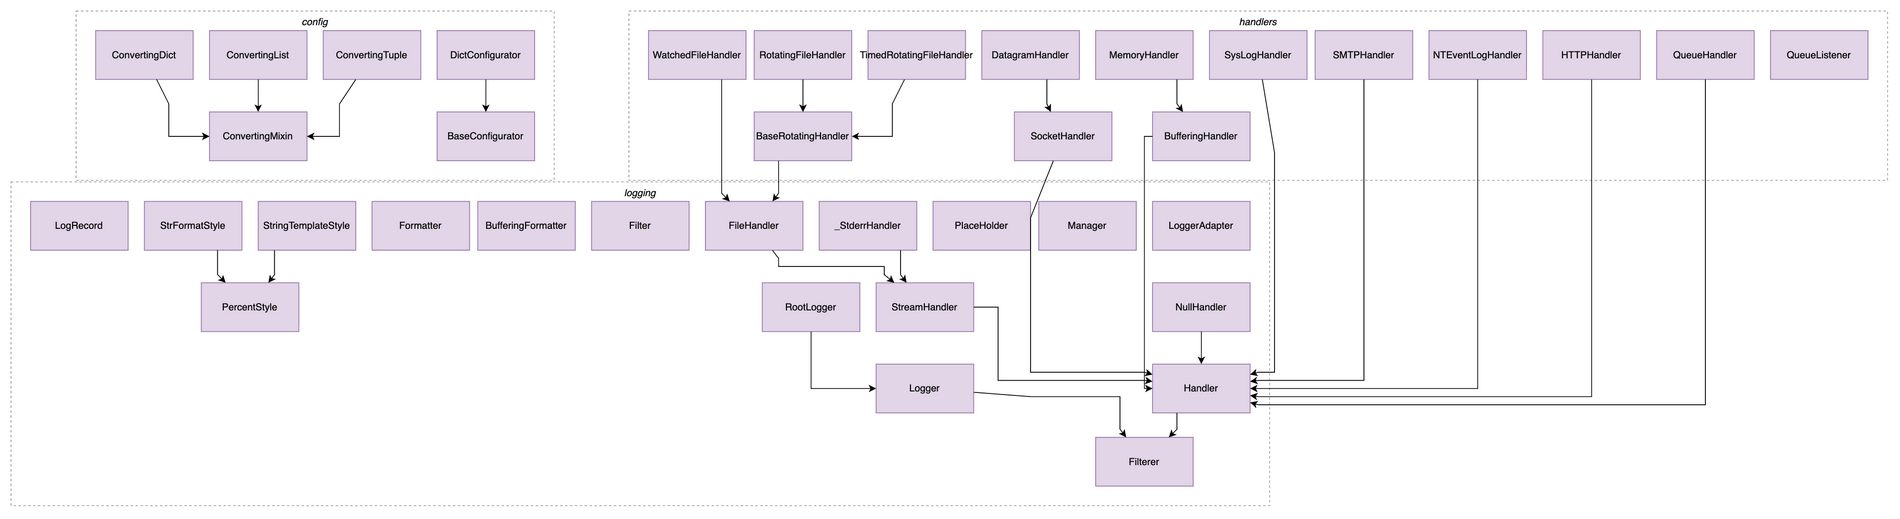
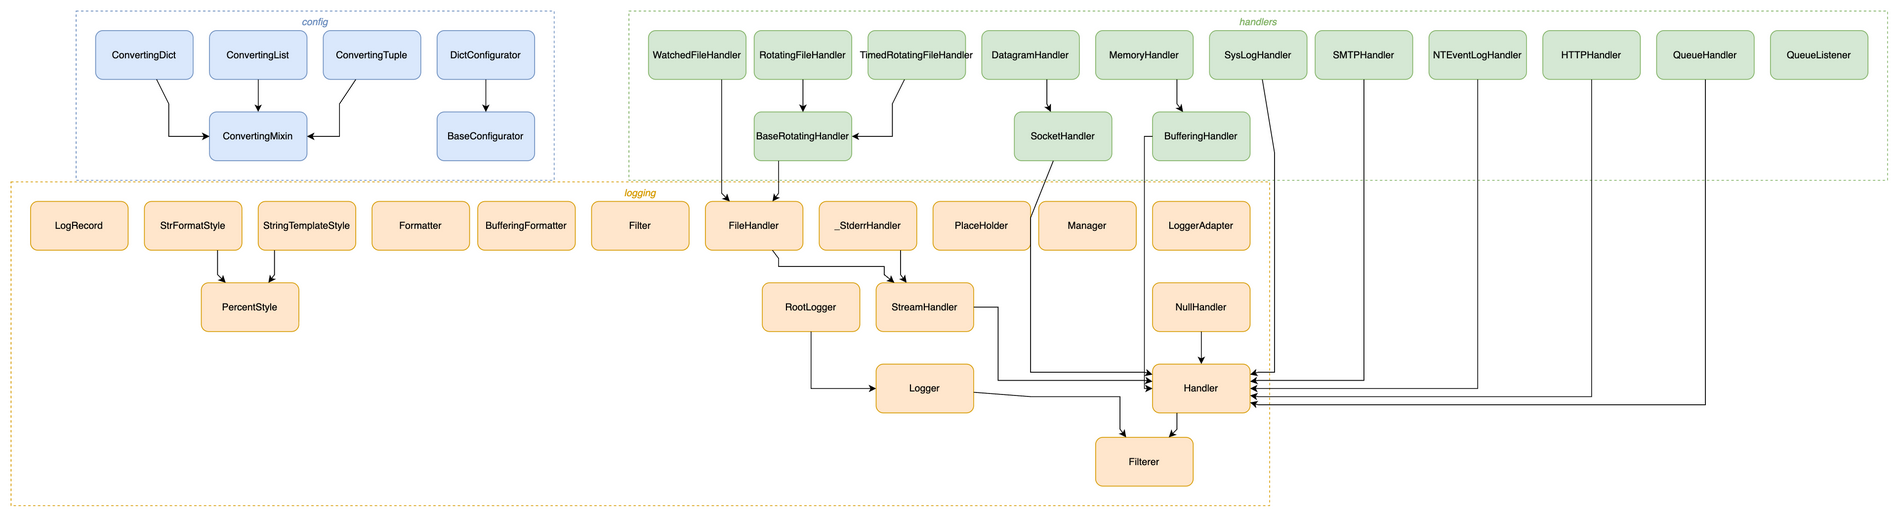
feat(autolayout): colour groups from the skill palette, not monochrome (#25)
Grouped code-viz diagrams were a wall of identical washed-out purple boxes
(pyclasses hard-coded one fill). Now autolayout tints each top-level group
with a colour pulled from the skill's own palette (styles/built-in/default.json,
single source of truth — no second list baked into the script), cycled in role
order, with matching container border + title. Related modules read as a
coloured cluster at a glance.

- Only styleless nodes are tinted; an explicit node style (e.g. an applied
  preset) always wins. Ungrouped output is byte-unchanged. --mono restores the
  old monochrome look.
- pyclasses no longer hard-codes a fill, so its grouped output is coloured by
  module.
- Regenerated assets/code-structure-example.png with the new palette.
- Bump to 1.13.0.

diff --git a/skills/drawio-skill/scripts/autolayout.py b/skills/drawio-skill/scripts/autolayout.py
@@ -25,6 +25,7 @@ Usage: python3 autolayout.py graph.json [-o diagram.drawio]
 """
 import argparse
 import json
+import os
 import shlex
 import subprocess
 import sys
@@ -35,6 +36,32 @@ NODE_STYLE = "rounded=1;whiteSpace=wrap;html=1;fillColor=#dae8fc;strokeColor=#6c
 EDGE_STYLE = "html=1;rounded=0;"
 GROUP_STYLE = ("rounded=0;whiteSpace=wrap;html=1;fillColor=none;strokeColor=#999999;"
                "verticalAlign=top;fontStyle=2;dashed=1;")
+# Group colours come from the skill's own palette (styles/built-in/default.json)
+# so there is a single source of truth, not a second list baked in here. When a
+# grouped graph is laid out, each top-level group takes the next colour (cycled
+# in a fixed, harmonious role order) so related modules read as a coloured
+# cluster. Nodes that carry their own `style` keep it; only styleless grouped
+# nodes are tinted. Disable with --mono.
+_PALETTE_ORDER = ["primary", "success", "accent", "secondary", "warning", "danger", "neutral"]
+_PALETTE_FILE = os.path.join(os.path.dirname(__file__), "..", "styles", "built-in", "default.json")
+_FALLBACK_PALETTE = [("#dae8fc", "#6c8ebf"), ("#d5e8d4", "#82b366"), ("#ffe6cc", "#d79b00"),
+                     ("#e1d5e7", "#9673a6"), ("#fff2cc", "#d6b656"), ("#f8cecc", "#b85450")]
+
+
+def load_palette():
+    """Ordered (fill, stroke) list from the default preset's palette; fall back
+    to the same colours inline if the preset file can't be read."""
+    try:
+        pal = json.load(open(_PALETTE_FILE, encoding="utf-8"))["palette"]
+        colors = [(pal[r]["fillColor"], pal[r]["strokeColor"]) for r in _PALETTE_ORDER if r in pal]
+        if colors:
+            return colors
+    except (OSError, KeyError, ValueError):
+        pass
+    return _FALLBACK_PALETTE
+
+
+PALETTE = load_palette()
 # Uniform container padding; the title sits in the top pad (verticalAlign=top).
 # dot's cluster margin is set to this same value so each container box equals
 # dot's cluster box — which dot guarantees never overlaps, at any nesting depth.
@@ -142,7 +169,13 @@ def layout(dot_src):
     return height, pos, edges
 
 
-def to_drawio(graph, height, pos, edge_pts):
+def group_style(stroke):
+    """Container box styled with a group's colour (coloured border + title)."""
+    return (f"rounded=0;whiteSpace=wrap;html=1;fillColor=none;strokeColor={stroke};"
+            f"fontColor={stroke};verticalAlign=top;fontStyle=2;dashed=1;")
+
+
+def to_drawio(graph, height, pos, edge_pts, color=True):
     nodes = graph["nodes"]
     # Absolute snapped rect for every placed node.
     rects = {}
@@ -158,6 +191,16 @@ def to_drawio(graph, height, pos, edge_pts):
     # Parse the (possibly nested) group tree and assign each container a
     # collision-free id and a title (the path's last segment, or a member's groupLabel).
     gpath, direct, children, ordered = group_tree(nodes)
+    # Assign each top-level group a palette colour, in order of first appearance.
+    top_order = []
+    for node in nodes:
+        t = gpath.get(node["id"])
+        if t and t[0] not in top_order:
+            top_order.append(t[0])
+
+    def gcolor(seg):
+        return PALETTE[top_order.index(seg) % len(PALETTE)]
+
     used = {n["id"] for n in nodes}
     label_override = {}
     for node in nodes:
@@ -208,9 +251,10 @@ def to_drawio(graph, height, pos, edge_pts):
             continue
         gx, gy, gw, gh = gbox[p]
         x, y, parent = rebase(gx, gy, p[:-1] if len(p) > 1 else None)
+        gstyle = group_style(gcolor(p[0])[1]) if color else GROUP_STYLE
         cells.append(
             f'        <mxCell id="{attr(gid[p])}" value="{attr(glabel[p])}" '
-            f'style="{GROUP_STYLE}" vertex="1" parent="{attr(parent)}">\n'
+            f'style="{gstyle}" vertex="1" parent="{attr(parent)}">\n'
             f'          <mxGeometry x="{x}" y="{y}" width="{gw}" height="{gh}" as="geometry"/>\n'
             f"        </mxCell>"
         )
@@ -220,7 +264,13 @@ def to_drawio(graph, height, pos, edge_pts):
             continue
         rx, ry, w, h = rects[nid]
         x, y, parent = rebase(rx, ry, gpath.get(nid) if gpath.get(nid) in gbox else None)
-        style = node.get("style", NODE_STYLE)
+        if node.get("style"):
+            style = node["style"]                         # explicit style always wins
+        elif color and nid in gpath:
+            fill, stroke = gcolor(gpath[nid][0])          # tint styleless nodes by group
+            style = f"rounded=1;whiteSpace=wrap;html=1;fillColor={fill};strokeColor={stroke};"
+        else:
+            style = NODE_STYLE
         cells.append(
             f'        <mxCell id="{attr(nid)}" value="{attr(node.get("label", nid))}" '
             f'style="{style}" vertex="1" parent="{attr(parent)}">\n'
@@ -264,11 +314,13 @@ def main():
     ap = argparse.ArgumentParser(description="Auto-layout a graph JSON into draw.io XML.")
     ap.add_argument("input", help="graph JSON file")
     ap.add_argument("-o", "--output", help="output .drawio path (default: stdout)")
+    ap.add_argument("--mono", action="store_true",
+                    help="don't colour groups by palette (monochrome boxes)")
     args = ap.parse_args()
     with open(args.input, encoding="utf-8") as f:
         graph = json.load(f)
     height, pos, edge_pts = layout(build_dot(graph))
-    xml = to_drawio(graph, height, pos, edge_pts)
+    xml = to_drawio(graph, height, pos, edge_pts, color=not args.mono)
     if args.output:
         with open(args.output, "w", encoding="utf-8") as f:
             f.write(xml)

diff --git a/skills/drawio-skill/scripts/pyclasses.py b/skills/drawio-skill/scripts/pyclasses.py
@@ -26,8 +26,6 @@ import re
 import subprocess
 import sys
 
-CLASS_STYLE = "rounded=0;whiteSpace=wrap;html=1;fillColor=#e1d5e7;strokeColor=#9673a6;"
-
 
 def discover(root):
     """Map dotted module name -> file path; qualify with the package name when
@@ -129,7 +127,9 @@ def main():
     short = lambda m: m[len(strip):] if strip and m.startswith(strip) else m
 
     def node(cid):
-        d = {"id": cid, "label": cid.rsplit(".", 1)[1], "style": CLASS_STYLE}
+        # No hard-coded colour: autolayout tints nodes by their group (module),
+        # so a grouped class hierarchy reads as coloured-by-module.
+        d = {"id": cid, "label": cid.rsplit(".", 1)[1]}
         if args.group:
             mod = classes[cid][0]
             path = short(mod).replace(".", "/")          # module path -> nested boxes

diff --git a/skills/drawio-skill/SKILL.md b/skills/drawio-skill/SKILL.md
@@ -1,12 +1,12 @@
 ---
 name: drawio-skill
-version: 1.12.0
+version: 1.13.0
 description: Use when the user requests diagrams, flowcharts, architecture diagrams, ER diagrams, UML / sequence / class diagrams, network topology, ML/DL model figures (Transformer/CNN/LSTM), mind maps, or any visualization. Also use proactively when explaining systems with 3+ components, complex data flows, or relationships that benefit from visual representation. Best suited when the diagram needs custom styling, rich shape vocabulary, swimlanes, or exportable images (PNG/SVG/PDF/JPG). Generates .drawio XML and exports locally via the native draw.io desktop CLI.
 license: MIT
 homepage: https://github.com/Agents365-ai/drawio-skill
 compatibility: Requires draw.io desktop app CLI on PATH (macOS/Linux/Windows). Self-check step requires a vision-enabled model (e.g., Claude Sonnet/Opus); gracefully skipped if unavailable. Optional auto-layout (scripts/autolayout.py) needs Graphviz (dot).
 platforms: [macos, linux, windows]
-metadata: {"openclaw":{"requires":{"anyBins":["draw.io","drawio"]},"emoji":"📐","os":["darwin","linux","win32"],"install":[{"id":"brew-drawio","kind":"brew","formula":"drawio","bins":["drawio"],"label":"Install draw.io via Homebrew","os":["darwin"]},{"id":"brew-graphviz","kind":"brew","formula":"graphviz","bins":["dot"],"label":"Install Graphviz for optional autolayout.py","os":["darwin"],"optional":true}]},"hermes":{"tags":["drawio","diagram","flowchart","architecture","visualization","uml"],"category":"design","requires_tools":["drawio","draw.io"],"related_skills":["mermaid","excalidraw","plantuml"]},"author":"Agents365-ai","version":"1.12.0"}
+metadata: {"openclaw":{"requires":{"anyBins":["draw.io","drawio"]},"emoji":"📐","os":["darwin","linux","win32"],"install":[{"id":"brew-drawio","kind":"brew","formula":"drawio","bins":["drawio"],"label":"Install draw.io via Homebrew","os":["darwin"]},{"id":"brew-graphviz","kind":"brew","formula":"graphviz","bins":["dot"],"label":"Install Graphviz for optional autolayout.py","os":["darwin"],"optional":true}]},"hermes":{"tags":["drawio","diagram","flowchart","architecture","visualization","uml"],"category":"design","requires_tools":["drawio","draw.io"],"related_skills":["mermaid","excalidraw","plantuml"]},"author":"Agents365-ai","version":"1.13.0"}
 ---
 
 # Draw.io Diagrams

diff --git a/skills/drawio-skill/references/autolayout.md b/skills/drawio-skill/references/autolayout.md
@@ -51,7 +51,7 @@ It prints `wrote diagram.drawio (N nodes, M edges)` to stderr and writes a norma
 | `direction` | no | `TB` | `TB` (top→bottom) or `LR` (left→right) — the layout rank direction |
 | `nodes[].id` | **yes** | — | Unique; must not be `0` or `1` (reserved for draw.io root cells) |
 | `nodes[].label` | no | the `id` | Display text; auto XML-escaped |
-| `nodes[].style` | no | blue rounded box | Any draw.io style string — reuse the role/shape styles from `diagram-types.md` and the active preset |
+| `nodes[].style` | no | group colour, else blue | Any draw.io style string — reuse the role/shape styles from `diagram-types.md` and the active preset. A styleless node is tinted by its group (see **Containers / grouping**); an explicit style always wins |
 | `nodes[].width` / `height` | no | `120` / `60` | Pixels; dot lays out at this real size |
 | `nodes[].group` | no | none | Group key, or a `/`-delimited path (`"core/db"`) for **nested** containers — nodes sharing a path are boxed together (see **Containers / grouping**) |
 | `nodes[].groupLabel` | no | last path segment | Title shown on the node's deepest container (first node with the path wins) |
@@ -70,6 +70,7 @@ Give nodes a `group` key and the script wraps each group in a labeled container 
 
 **Nesting.** A `group` value with `/` separators builds nested containers: `"core/db"` puts the node inside a `db` box that itself sits inside a `core` box. Every path prefix becomes a container, so an arbitrarily deep package tree maps to nested boxes. A node can also sit *directly* in a parent box (`group: "core"`) alongside a sibling sub-box (`group: "core/db"`).
 
+- **Colour by group.** Each top-level group is assigned a colour from the skill's own palette (`styles/built-in/default.json`, cycled in role order: blue → green → orange → purple → yellow → red → grey). A node with no `style` of its own is tinted with its group's colour, and the container's border + title match — so related modules read as a coloured cluster instead of monochrome boxes. A node that carries its own `style` (e.g. from an applied preset) is left untouched. Pass `--mono` to turn colouring off (dashed grey boxes, default-blue nodes — the previous look). Ungrouped graphs are unaffected.
 - Each container box is the bounding box of its members and child boxes plus a uniform padding. The dot cluster margin is set to that same padding, so each box equals dot's cluster box — which dot keeps non-overlapping at **any nesting depth**.
 - The title sits in the top padding (`verticalAlign=top`); the box title is the path's last segment, or a member's `groupLabel`.
 - Containers are visual only (no edges of their own). Edges still connect node→node and route across containers normally.